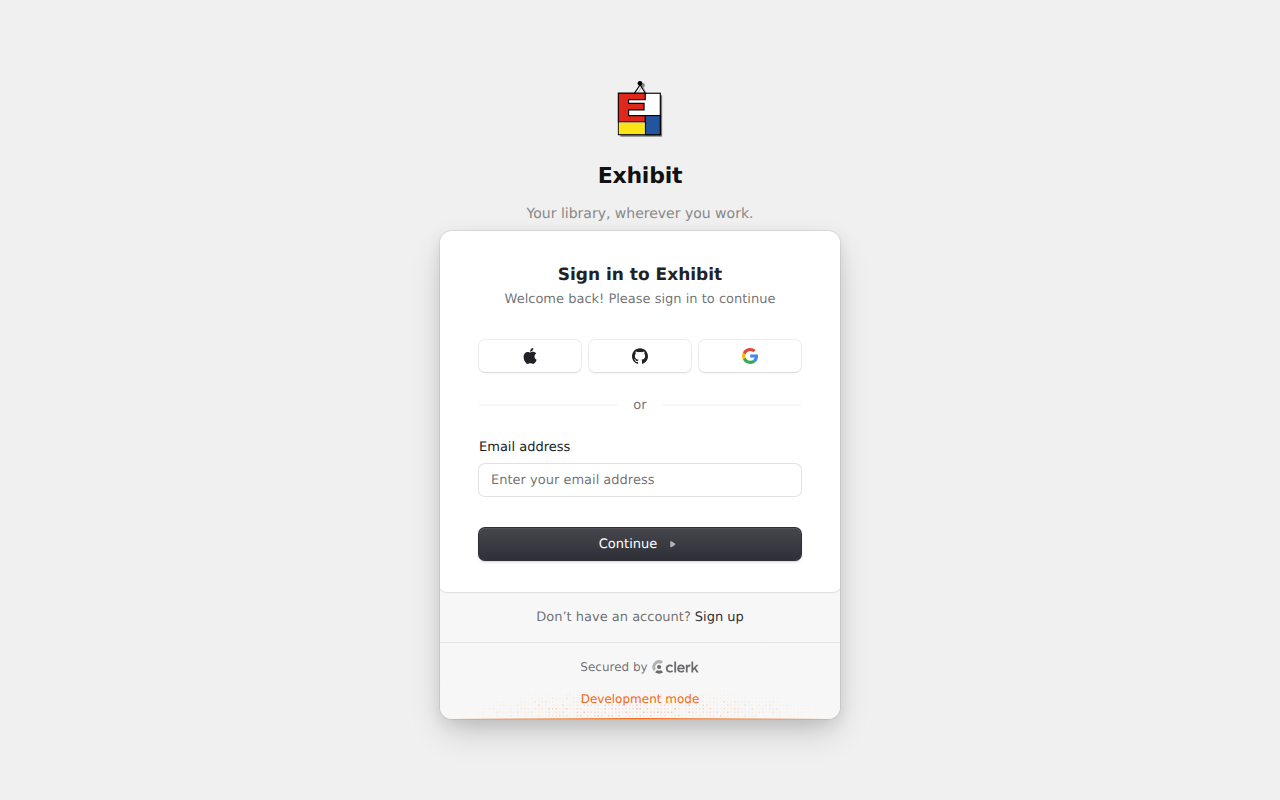
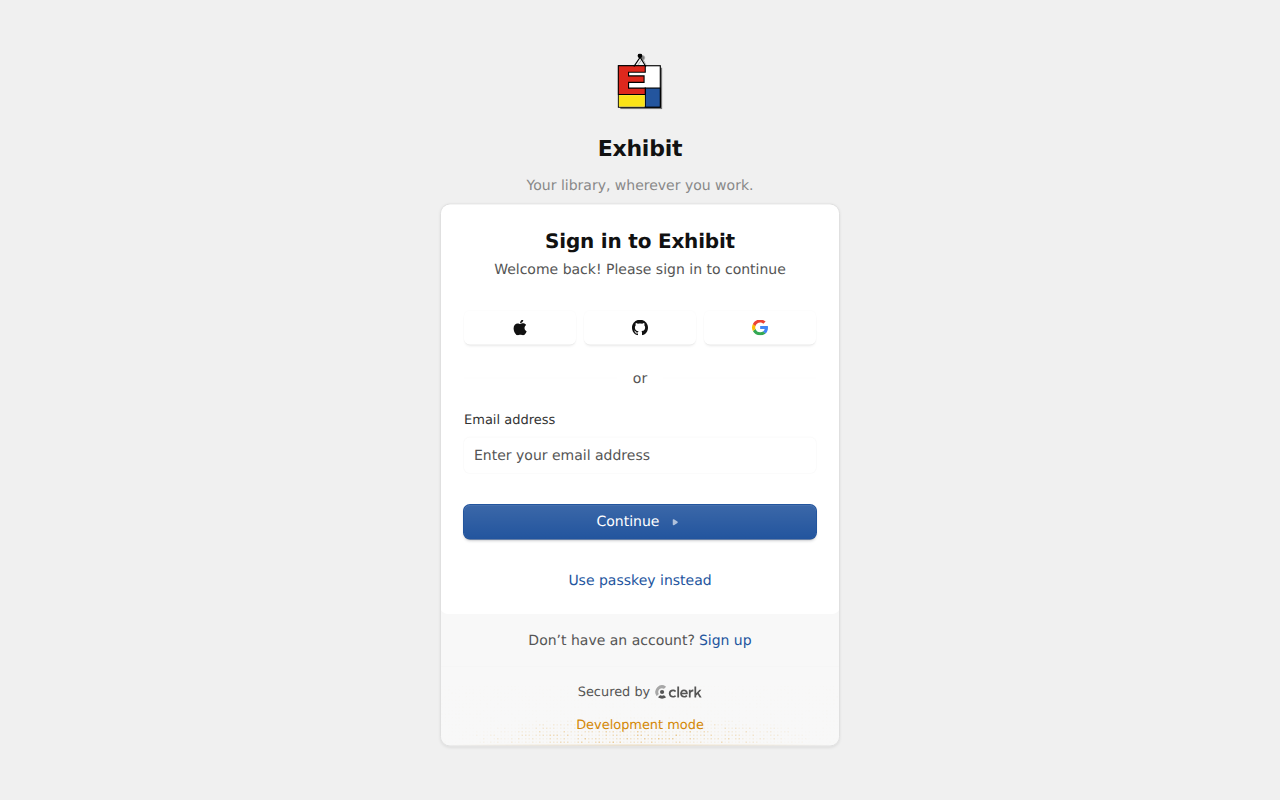
Enable development passkeys and match Clerk controls to Exhibit styling

diff --git a/web/gallery/clerk-appearance.js b/web/gallery/clerk-appearance.js
@@ -1,0 +1,49 @@
+// Map Clerk's supported appearance API to Exhibit tokens. CSS variables keep
+// open account dialogs in sync when the system changes light/dark mode.
+export const clerkAppearance = {
+  variables: {
+    colorPrimary: 'var(--color-accent)',
+    colorPrimaryForeground: 'var(--color-on-accent)',
+    colorBackground: 'var(--color-panel)',
+    colorForeground: 'var(--color-ink)',
+    colorMuted: 'var(--color-subtle)',
+    colorMutedForeground: 'var(--color-ink-mid)',
+    colorInput: 'var(--color-panel)',
+    colorInputForeground: 'var(--color-ink)',
+    colorBorder: 'var(--color-border)',
+    colorDanger: 'var(--color-danger)',
+    colorSuccess: 'var(--color-success)',
+    colorWarning: 'var(--color-warn-strong)',
+    colorRing: 'var(--color-accent-tint-border)',
+    fontFamily: 'system-ui, sans-serif',
+    fontFamilyButtons: 'system-ui, sans-serif',
+    fontSize: '14px',
+    borderRadius: 'var(--radius-md)',
+  },
+  elements: {
+    cardBox: { borderRadius: 'var(--radius-lg)', boxShadow: 'var(--shadow-card)', border: '1px solid var(--color-hairline)' },
+    card: { background: 'var(--color-panel)', boxShadow: 'none', padding: 'var(--space-8)' },
+    headerTitle: { color: 'var(--color-ink)', fontSize: '20px', fontWeight: 600, letterSpacing: '-0.01em' },
+    headerSubtitle: { color: 'var(--color-ink-mid)', fontSize: '14px' },
+    formFieldLabel: { color: 'var(--color-ink-soft)', fontSize: '13px', fontWeight: 500 },
+    formFieldInput: { border: '1px solid var(--color-border)', fontSize: 'var(--field-font-size)', padding: 'var(--space-3) var(--space-4)', boxShadow: 'none' },
+    formButtonPrimary: {
+      background: 'var(--brand-blue)', color: 'var(--color-on-accent)',
+      boxShadow: 'none', border: 'none', fontWeight: 500,
+      '&:hover': { background: 'var(--brand-blue-hover)' },
+    },
+    socialButtonsIconButton: { boxShadow: 'none', border: '1px solid var(--color-border)', background: 'var(--color-panel)' },
+    socialButtonsBlockButton: { boxShadow: 'none', border: '1px solid var(--color-border)', background: 'var(--color-panel)' },
+    footer: { background: 'var(--color-subtle)', backgroundImage: 'none', borderTop: '1px solid var(--color-hairline)' },
+    footerActionLink: { color: 'var(--brand-blue)', fontWeight: 500 },
+    userButtonPopoverCard: { borderRadius: 'var(--radius-lg)', boxShadow: 'var(--shadow-modal)', border: '1px solid var(--color-border)' },
+  },
+};
+
+// Width belongs to the standalone login form, not the navigation's user button.
+export const clerkAuthAppearance = {
+  elements: {
+    rootBox: { width: '100%', maxWidth: '100%' },
+    cardBox: { width: '100%', maxWidth: '100%' },
+  },
+};

diff --git a/web/gallery/clerk-client.js b/web/gallery/clerk-client.js
@@ -1,3 +1,5 @@
+import { clerkAppearance } from './clerk-appearance.js';
+
 let clientPromise;
 
 const loadTimeout = 15000;
@@ -34,11 +36,12 @@ async function loadClient() {
   const frontend = document.querySelector('meta[name="clerk-frontend-api"]')?.content;
   if (!publishableKey || !frontend) throw new Error('Account service is not configured.');
   await Promise.all([
-    loadScript(`${frontend}/npm/@clerk/ui@1/dist/ui.browser.js`),
-    loadScript(`${frontend}/npm/@clerk/clerk-js@6/dist/clerk.browser.js`, publishableKey),
+    loadScript(`${frontend}/npm/@clerk/ui@1.41.2/dist/ui.browser.js`),
+    loadScript(`${frontend}/npm/@clerk/clerk-js@6.40.1/dist/clerk.browser.js`, publishableKey),
   ]);
   await window.Clerk.load({
     ui: { ClerkUI: window.__internal_ClerkUICtor },
+    appearance: clerkAppearance,
     signInUrl: '/auth/login',
     signUpUrl: '/auth/signup',
     afterSignOutUrl: '/auth/login',

diff --git a/web/gallery/clerk-controller.js b/web/gallery/clerk-controller.js
@@ -1,5 +1,6 @@
 import { Controller } from '../stimulus/stimulus.js';
 import { clerkClient } from './clerk-client.js';
+import { clerkAuthAppearance } from './clerk-appearance.js';
 
 export default class extends Controller {
   static targets = ['mount', 'status'];
@@ -22,7 +23,7 @@ export default class extends Controller {
         if (!response.ok) throw new Error('Your account cannot access Exhibit. Contact the administrator.');
         window.location.replace(this.nextValue);
       } else {
-        const options = { routing: 'hash', forceRedirectUrl: this.nextValue };
+        const options = { routing: 'hash', forceRedirectUrl: this.nextValue, appearance: clerkAuthAppearance };
         if (this.modeValue === 'signup') clerk.mountSignUp(this.mountTarget, options);
         else clerk.mountSignIn(this.mountTarget, options);
       }

diff --git a/web/gallery/login.css b/web/gallery/login.css
@@ -43,4 +43,3 @@
  * two cards, and constrain the vendor UI on narrow screens. */
 .login-clerk{max-width:400px;background:transparent;box-shadow:none;padding:0;gap:var(--space-4)}
 .login-clerk>[data-controller="clerk"]{width:100%;min-width:0}
-.login-clerk .cl-rootBox,.login-clerk .cl-cardBox{width:100%;max-width:100%}

diff --git a/.tickets/Exh-wi2y.md b/.tickets/Exh-wi2y.md
@@ -26,3 +26,7 @@ CLI authenticated and linked selected Exhibit application; env pull wrote develo
 **2026-10-24T05:24:31Z**
 
 User reported indefinite Loading your account. Browser inspection found missing Web Crypto on HTTP preview; HTTPS via tailnet-only Tailscale Serve port 8444 now proxies the app and old login/signup links redirect to configured HTTPS origin. Verified secureContext=true, crypto.subtle available, live signup form rendered, no console errors. Added 15-second SDK/script loading timeout with actionable error; two timeout tests and focused Go Clerk tests pass. This removes an observed HTTP compatibility problem; user must confirm their browser now loads/signs up. Preview renderer remains HTTP on distinct hostname; full artifact rendering from HTTPS preview needs a separate HTTPS render origin before claiming full end-to-end app validation.
+
+**2026-10-24T05:32:49Z**
+
+Enabled auth_passkey.used_for_sign_in on selected development instance through Clerk CLI after schema check and dry-run; re-pull confirms true, autofill/button enabled, satisfies_second_factor true. Production remains unconfigured. Added shared Clerk appearance using Exhibit tokens, matching typography/buttons/fields/panels and light/dark mode. Pinned currently used SDK/UI CDN versions and replaced structural CSS selectors with appearance settings. Browser confirmed Use passkey instead, exact brand colors, dark token colors, and no overflow at 390px. Refreshed screenshots. Build and Clerk loading timeout tests pass. Passkey enrollment requires user sign-up/sign-in and their own authenticator; not performed on their behalf.

diff --git a/docs/deployment.md b/docs/deployment.md
@@ -402,6 +402,19 @@ the library header adds the signed-in user menu. Clerk's scripts load from the
 application's Frontend API domain only in hosted mode. Self-hosters do not load
 Clerk scripts or contact Clerk.
 
+Clerk's appearance settings map to Exhibit tokens in
+`web/gallery/clerk-appearance.js`, so account components share the app's
+light/dark colors, typography, field borders, and button styling. The browser
+SDK and UI bundle versions are pinned in `clerk-client.js` for predictable
+component styling.
+
+Passkeys are enabled on the selected development instance, including autofill
+and the sign-in button. After signing up with email or a social provider, open
+the profile menu, **Manage account → Security**, and add a passkey. Enrollment
+requires a secure browser context; use the HTTPS preview. Passkeys are scoped
+to their registration domain, so enroll separately on the eventual production
+domain. Production configuration remains a separate deployment step.
+
 [Desktop sign-in](screenshots/Exh-wi2y/01-signin-desktop.png) ·
 [Mobile sign-up](screenshots/Exh-wi2y/02-signup-mobile.png)
 
